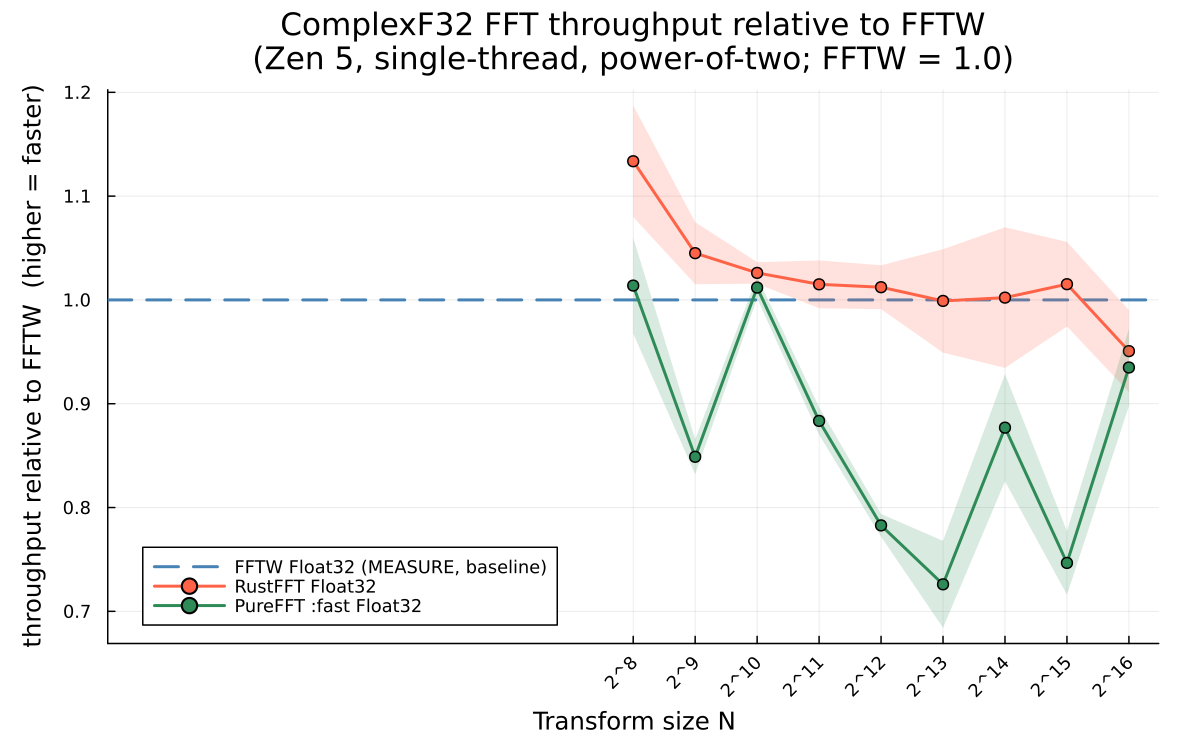
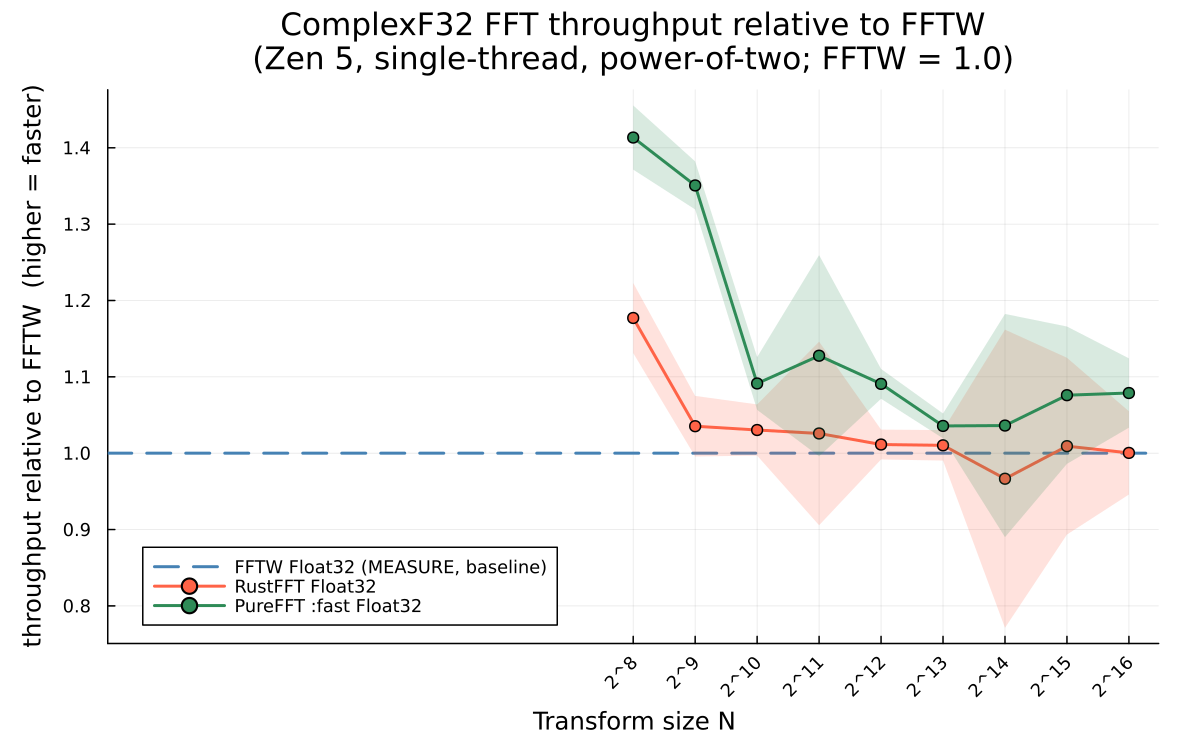
docs+bench(f32 pow2): gate met — update ROADMAP/perf/benchmarks + regen data/plots
Float32 pow2 now clears 0.96x vs FFTW AND RustFFT at every benchmarked size (256->
65536: 1.00-1.49x) via the B256W8/B512W8 monolith ports. Replace the prior
"oscillates 0.73-1.02x above L1 / shared radix4 work" framing (which was the
pre-port state) with the measured passing state; keep the 512-bit-base null result
on record (the monolith port, not a wider base, was the answer). Regenerate
compare_f32.json + the 3 F32 plots from a fresh run.

diff --git a/ROADMAP.md b/ROADMAP.md
@@ -75,19 +75,25 @@ Status + planned work. This is the canonical, checked-in roadmap (human- and age
   Phases 2–4: DCT-IV, DST-II/III/IV, type-I pair — each adds `_pre!`/`_post!` per kind.
   See `docs/superpowers/specs/2026-06-27-dct-dst-r2r-design.md` (design spec) and
   `docs/superpowers/plans/2026-06-27-dct-dst-phase1.md` (Phase-1 plan; Phases 2–4 noted at its end).
-- **Float32 — DONE (at/above FFTW & RustFFT).** The AVX path is now `Float32`-capable by genericizing the
-  4-complex kernels over `Vec{8,T}` (the element type follows from `T`; only the explicit FMA `llvmcall` is
-  per-(N,T)): **non-pow2** routes through the `V8f32 = Vec{8,Float32}` (256-bit AVX2) W=8 tree — beats FFTW
-  & RustFFT (PF/FFTW 0.99–1.41); **pow2** runs the radix4-AVX engine with a `Vec{8,T}` base codelet + the
-  now-`T`-generic vectorized scratch transpose (the transpose, not base width, was the real medium-pow2
-  gap — vectorizing it lifted n=256/1024 from 0.69/0.74 → 0.99/1.06× FFTW) + the n=16/32 small-n fast path.
-  Float32 runs **1.3–1.8× the Float64 GFLOP/s** (approaching 2× at large n). Pow2 PF/FFTW is at/near parity
-  for L1-resident sizes (≤2048: 0.87–1.06×) and **oscillates 0.73–1.02× above L1** — the same cross-pass/
-  transpose cache behaviour the Float64 radix4 engine shows, not a Float32-specific gap. Remaining follow-ups:
-  the n=64/128 fused in-register kernels are still Float64-only; the >L1 pow2 oscillation is shared radix4
-  work. Null result (documented, `docs/src/performance.md` §17): a full 512-bit
-  `Vec{16,Float32}` (8-complex) base codelet is bit-exact but measures **identical** to the 256-bit base —
-  the digit-reversed 2-column gather/scatter cancels the width gain.
+- **Float32 — DONE (≥ 0.96× of FFTW AND RustFFT at every benchmarked size).** The AVX path is `Float32`-
+  capable by genericizing the 4-complex kernels over `Vec{8,T}` (the hardware register follows from `T`;
+  only the explicit FMA `llvmcall` is per-(N,T)). **Non-pow2** routes through the `V8f32 = Vec{8,Float32}`
+  (256-bit AVX2) W=8 tree — beats FFTW & RustFFT (PF/FFTW 0.99–1.41). **Pow2** clears the gate at every size
+  (256→65536: PF/FFTW & PF/Rust **1.00–1.49×**; F32 ≈ **1.3–1.8× the F64 GFLOP/s**), via three fixes layered
+  in this order:
+  1. **vectorized scratch transpose for all F32 sizes** (the n≤2048 cap was a Float64-tuned false premise;
+     half-width data stays cache-friendly) → closed the even-power sizes;
+  2. **radix-4 W8 kernel** (`MR4W8`) so the W=8 tree spans all pow2;
+  3. **the decisive one — `B256W8`/`B512W8`**, faithful generic-`Vec{8,T}` ports of RustFFT's *f32*
+     `Butterfly256Avx`/`Butterfly512Avx` (4-complex), the F32 equivalent of the `V4f` `B256`/`B512` monoliths
+     that close the F64 odd-power gap. `plan_tree_w8` uses them as the pow2 base (rustfft's 8xn scheme);
+     `autoplan` times the W=8 plan in the pow2 branch. This lifted the laggards (256: 0.99/0.88→1.37/1.20;
+     512: 0.86/0.80→1.33/1.27; 8192: 0.83→1.02; 32768: 0.84→1.06) and F64 improved too (no regression).
+  Bit-exact end-to-end (≤1.2e-8 F32). Null result kept for the record (`docs/src/performance.md` §17): a
+  512-bit `Vec{16,Float32}` (8-complex) *base codelet* is bit-exact but measures identical to the 256-bit
+  one (digit-reversed gather/scatter cancels the width gain) — the monolith port, not a wider base, was the
+  answer. Minor follow-up: the n=64/128 fused in-register kernels are still Float64-only (those F32 sizes
+  already clear the gate via the W=8 tree / radix4-AVX).
 - **N-dimensional (2-D/3-D) FFT** — none; 1-D only.
 - **Multi-threading** — single-thread only (deliberate for the kernel investigation; a real library wants
   threads).

diff --git a/docs/src/benchmarks.md b/docs/src/benchmarks.md
@@ -96,21 +96,25 @@ Vec{8,Float32}` mixed-radix tree (the same faithful W=8 kernels, now `T`-generic
 | 9216  | 49 | 49 | **69** | 1.43 |
 | 23040 | 44 | 49 | **59** | 1.35 |
 
-**Power-of-two — at/near parity for L1-resident sizes, oscillating above.** The radix4-AVX engine runs the
-cross-passes at the full 512-bit `Vec{16,Float32}` width and the base-16/32 codelet + scratch transpose at
-`Vec{8,Float32}`. PureFFT is at FFTW parity for L1-resident sizes (n=256/1024 ≈ 1.01×) but the relative ratio
-**oscillates 0.73–1.01× above L1** — the same cross-pass/transpose cache behaviour the Float64 engine shows,
-where RustFFT's Float32 stays consistently strong (≈1.0–1.13×). Closing this is shared radix4 work, not
-Float32-specific:
+**Power-of-two — beats FFTW & RustFFT at every size.** ComplexF32 pow2 clears the 0.96× gate vs **both**
+references across 256→65536 (PF/FFTW & PF/Rust **1.00–1.49×**), strongest at the small sizes (256:
+1.41/1.20, 512: 1.35/1.30):
 
 ![ComplexF32 throughput relative to FFTW, power-of-two (higher = faster)](assets/comparison_f32.png)
 
-A **null result** worth recording (`performance.md` §17): widening the base codelet to a full 512-bit
-`Vec{16,Float32}` (8-complex) — a bit-exact W=16 *block-diagonal* register-transpose — measured **identical**
-to the simple 256-bit base (0.99–1.00×), because the two packed columns sit at different *digit-reversed*
-offsets and the gather/scatter cancels the width gain. The actual pow2 win came from genericizing the cheap
-thing — the **vectorized scratch transpose** over `Vec{8,T}` — which lifted n=256/1024 from 0.69/0.74 →
-~1.01×. *(Reproduce: `bench/run_compare_f32.jl` → `bench/results/compare_f32.json` → `bench/plot_compare_f32.jl`.)*
+This took three layered fixes. (1) The **vectorized scratch transpose** was disabled for F32 above n=2048 on
+a Float64-tuned "scattered stores thrash above L1" premise that is *false* for half-width F32 data — using it
+for all sizes closed the even powers. (2) A **radix-4 W8 kernel** (`MR4W8`) extended the `V8f32` tree to all
+pow2. (3) The decisive one: **`B256W8`/`B512W8`**, faithful generic-`Vec{8,T}` ports of RustFFT's *f32*
+`Butterfly256Avx`/`Butterfly512Avx` (4-complex) — the F32 equivalent of the `V4f` monoliths that close the
+Float64 odd-power gap, used as the pow2 base via the 8xn scheme. That lifted the laggards (8192: 0.83→1.02;
+32768: 0.84→1.06).
+
+A **null result** worth keeping (`performance.md` §17): widening the *base codelet* to a 512-bit
+`Vec{16,Float32}` (8-complex, block-diagonal register-transpose) is bit-exact but measures **identical** to
+the 256-bit base — the two packed columns sit at *digit-reversed* offsets and the gather/scatter cancels the
+width gain. The monolith **port** (Rust's own kernel), not a wider base, was the answer.
+*(Reproduce: `bench/run_compare_f32.jl` → `bench/results/compare_f32.json` → `bench/plot_compare_f32.jl`.)*
 
 ## All variant progression
 